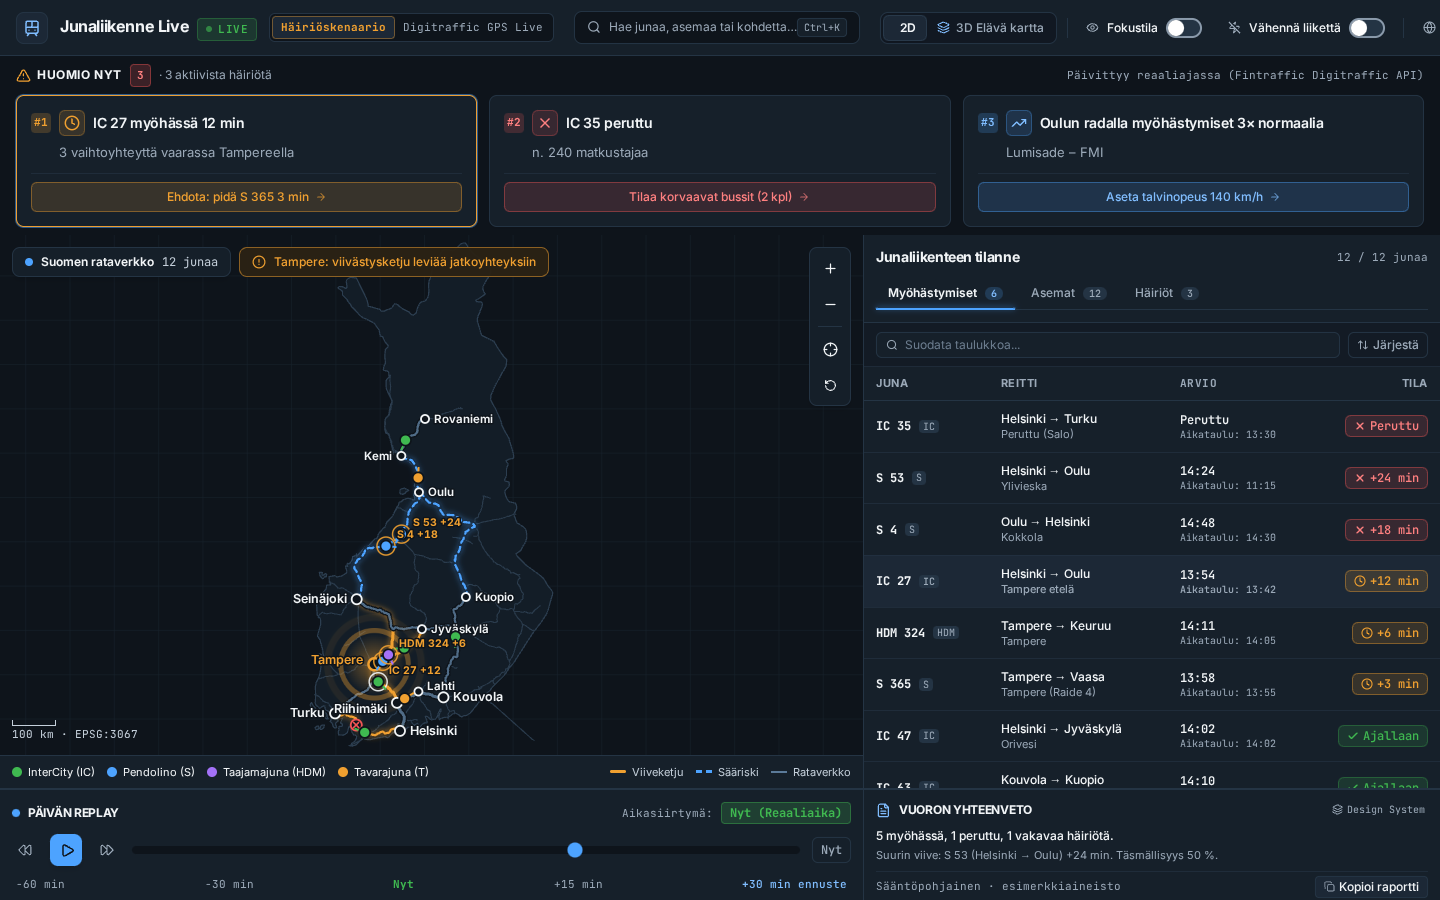
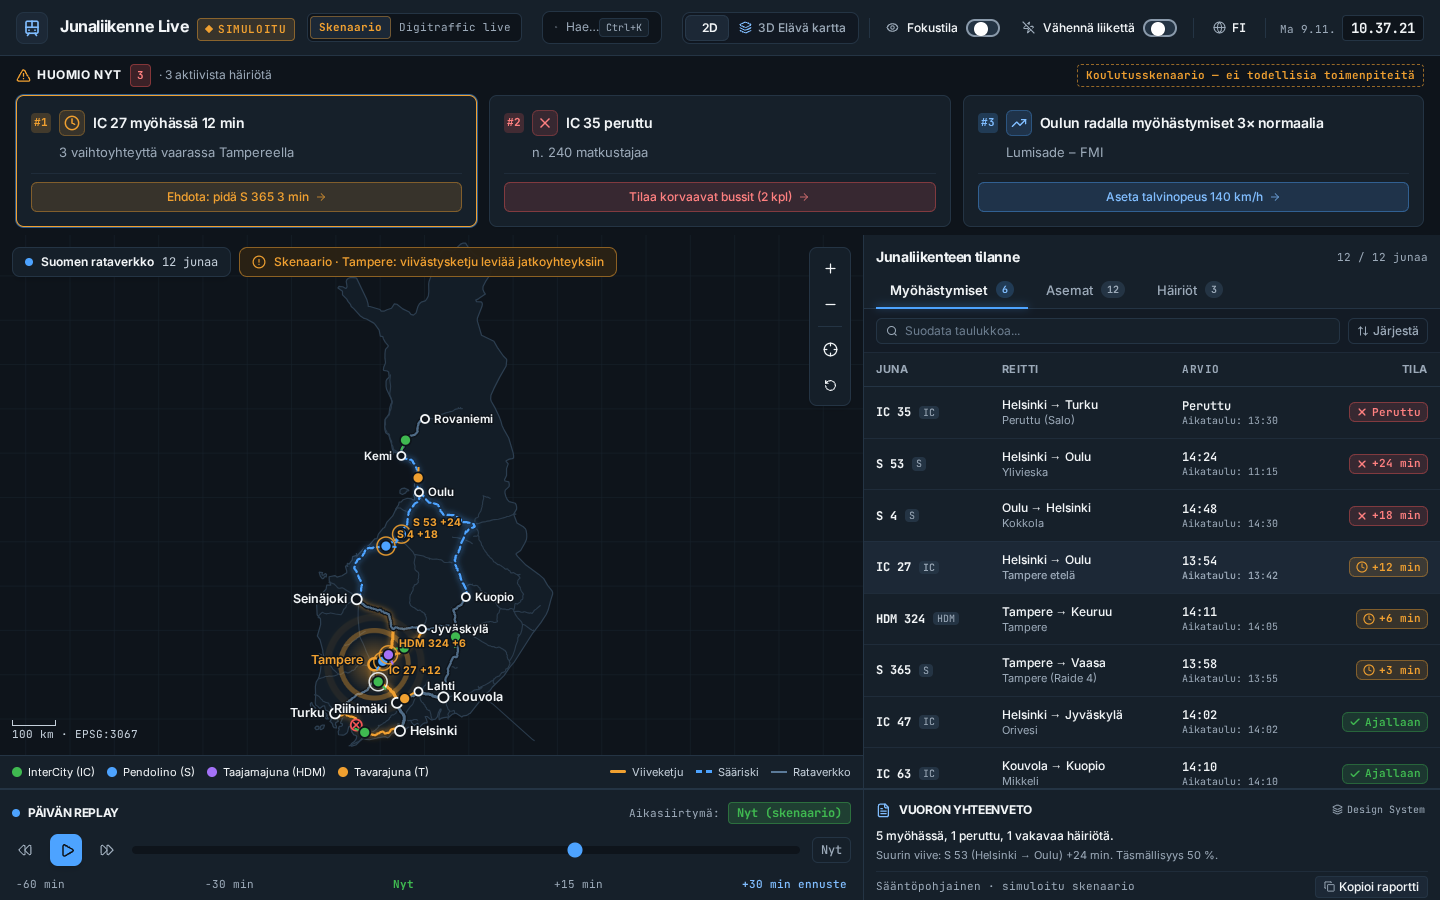
fix(topbar): no horizontal overflow at 1440 px; docs: live-mode screenshot

diff --git a/src/components/TopBar.tsx b/src/components/TopBar.tsx
@@ -72,7 +72,7 @@ export const TopBar: React.FC<TopBarProps> = ({
   return (
     <header className="h-14 bg-[#16202A] border-b border-[#243444] px-4 flex items-center justify-between gap-3 select-none shrink-0 z-30">
       {/* 1. Left Zone: Train icon + Title + green "Live" dot + Data Source Toggle */}
-      <div className="flex items-center gap-3 shrink-0">
+      <div className="flex items-center gap-2.5 shrink-0">
         <div className="w-8 h-8 rounded-[8px] bg-[#1C2836] border border-[#243444] flex items-center justify-center text-[#80BDFF]">
           <Train size={18} strokeWidth={2.2} aria-hidden="true" />
         </div>
@@ -121,7 +121,7 @@ export const TopBar: React.FC<TopBarProps> = ({
       </div>
 
       {/* 2. Center Zone: Centered search field with Ctrl+K hint */}
-      <div className="flex-1 min-w-0 max-w-md mx-2">
+      <div className="flex-1 min-w-[200px] max-w-md mx-1">
         <button
           type="button"
           onClick={onOpenSearch}
@@ -139,7 +139,7 @@ export const TopBar: React.FC<TopBarProps> = ({
       </div>
 
       {/* 3. Right Zone: Segmented control + Toggles + FI/EN + Clock */}
-      <div className="flex items-center gap-2.5 shrink-0">
+      <div className="flex items-center gap-2 shrink-0">
         {/* Segmented control: 2D | 3D Elävä kartta */}
         <FtSegmentedControl<ViewMode>
           value={viewMode}
@@ -208,7 +208,7 @@ export const TopBar: React.FC<TopBarProps> = ({
 
         {/* Clock with Finnish/European format */}
         <div className="flex items-baseline gap-1.5 pl-1 font-mono tabular-nums text-xs">
-          <span className="text-[#9BA9B8] text-[11px] capitalize">{dateStr}</span>
+          <span className="hidden 2xl:inline text-[#9BA9B8] text-[11px] capitalize">{dateStr}</span>
           <span className="text-[#F2F5F7] font-semibold text-sm bg-[#0E141B] px-2 py-0.5 rounded-[4px] border border-[#243444]">
             {timeStr}
           </span>

diff --git a/README.md b/README.md
@@ -11,9 +11,9 @@ A concept operator dashboard for following rail traffic and disruptions in Finla
 
 ![Dashboard overview](docs/screenshot.png)
 
-| 2D network map | 3D terrain view |
-| --- | --- |
-| ![2D map](docs/map-2d.png) | ![3D map](docs/map-3d.png) |
+| Digitraffic live mode (real GPS; delay shown as unavailable) | 2D network map | 3D terrain view |
+| --- | --- | --- |
+| ![Live mode](docs/live-mode.png) | ![2D map](docs/map-2d.png) | ![3D map](docs/map-3d.png) |
 
 ## What it is
 
